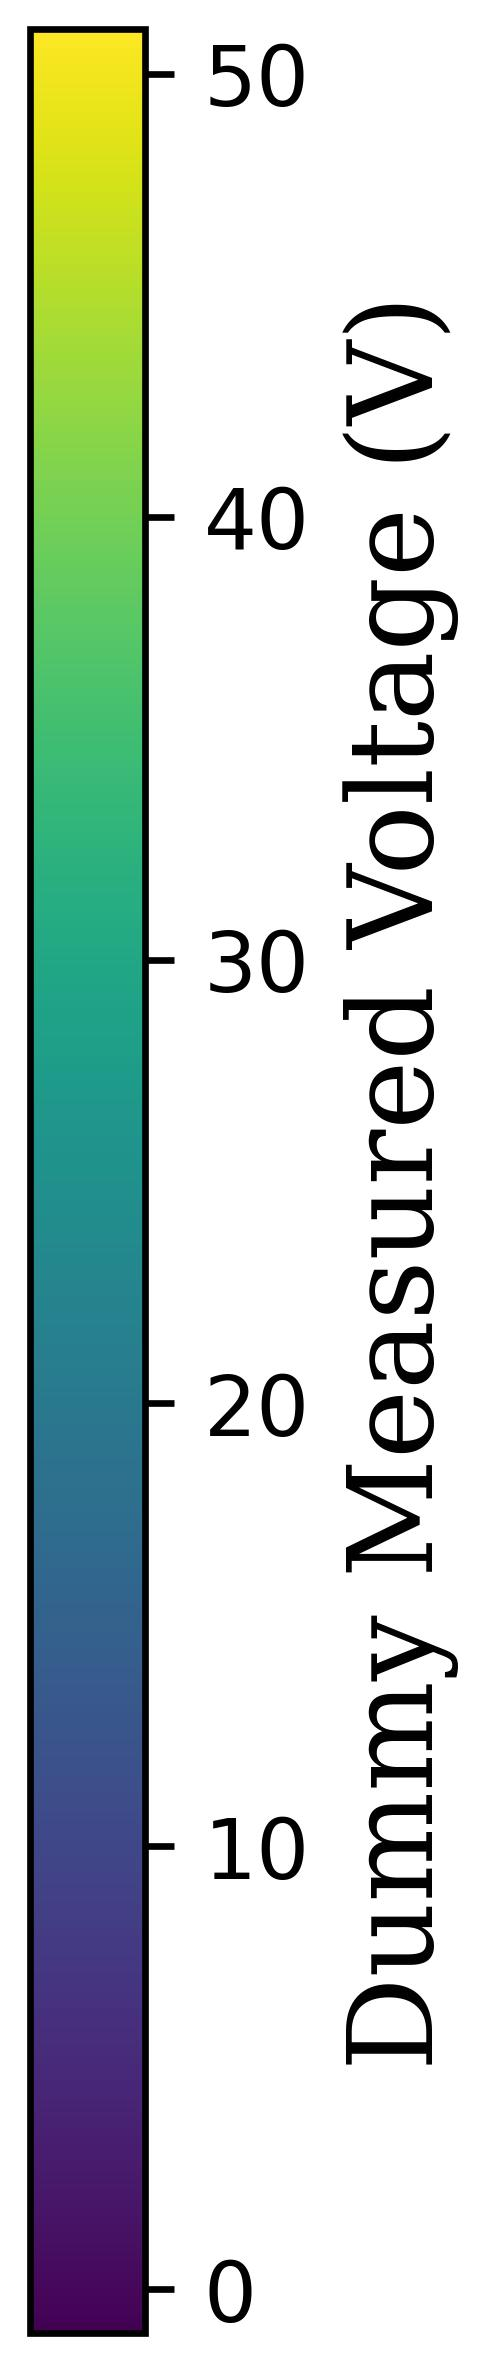
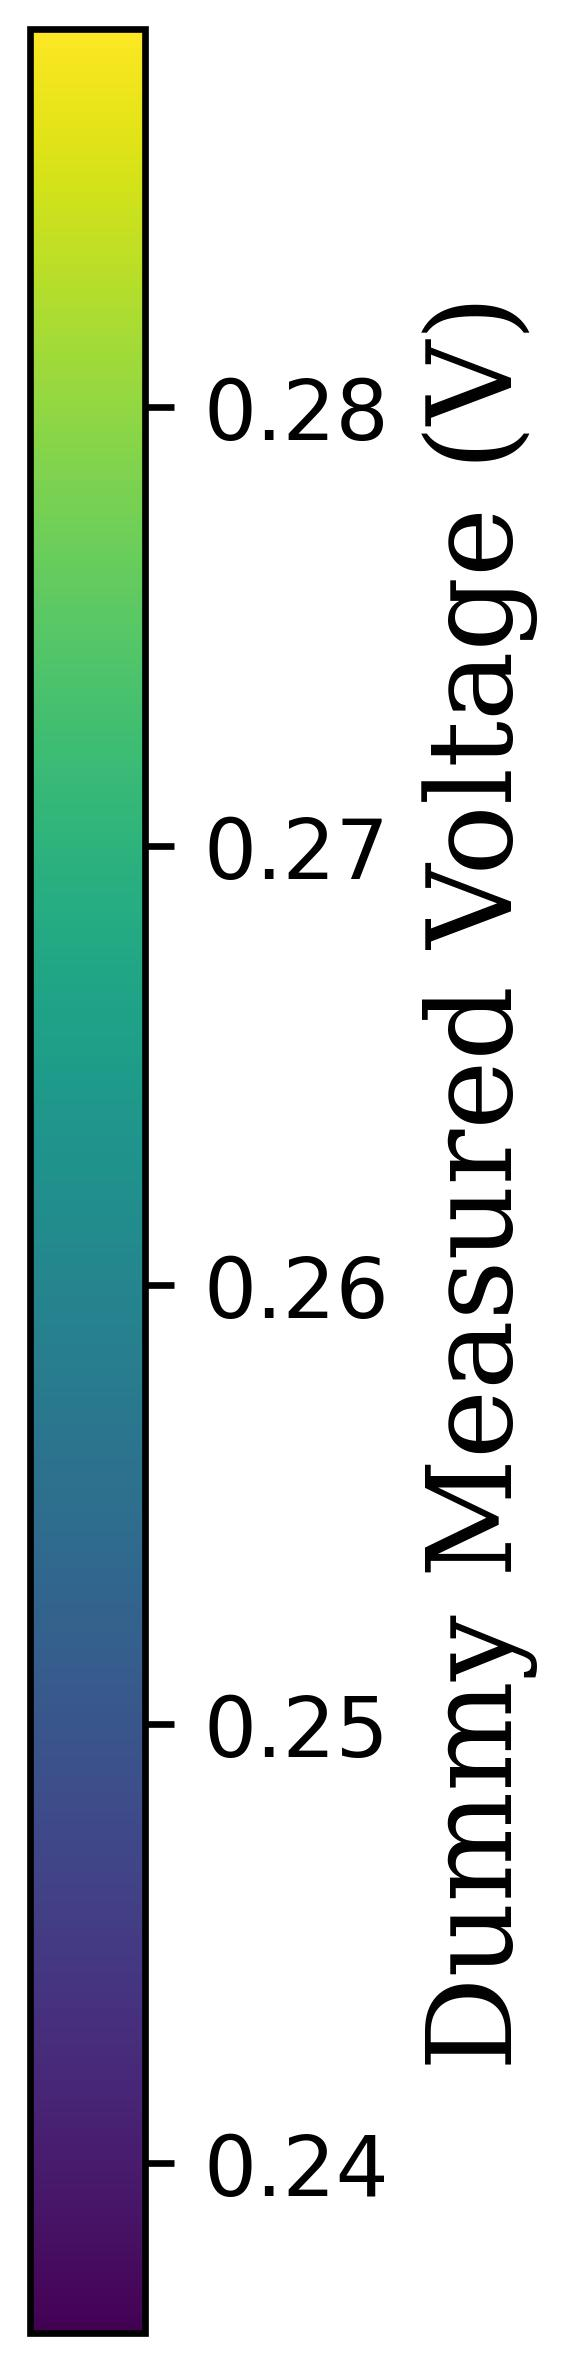
fixed 1D no data yet break

diff --git a/source/custom1D/labeling_.py b/source/custom1D/labeling_.py
@@ -146,6 +146,14 @@ class labeling():
 		data_bottom_left = self.pixel_pos_to_data_pos((self.margin_size, (self.window_size[1]-self.margin_size)))
 		data_top_right = self.pixel_pos_to_data_pos((self.window_size[0], 0))
 
+		if numpy.isnan(data_bottom_left[1]) or numpy.isnan(data_top_right[1]): #this can happen when the plots open before any data is collected
+			#we'll just write base labels and then return
+			y_label_surf = self._y_label_surfs[""]
+			x_label_surf = self._x_label_surfs[""]
+			self.label_surface.pyg_surf.blit(y_label_surf, (0, (self.window_size[1]-self.margin_size)*0.5-y_label_surf.size[1]*0.5))
+			self.label_surface.pyg_surf.blit(x_label_surf, (self.window_size[0]*0.5+self.margin_size-x_label_surf.size[0], self.window_size[1]-self.margin_size*0.5))
+			return
+
 		x_unit_scaled = new_unit_scale.convert_unit_scale(data_bottom_left[0], data_top_right[0])
 		x_scale_factor = x_unit_scaled[3]
 		y_unit_scaled = new_unit_scale.convert_unit_scale(data_bottom_left[1], data_top_right[1])

diff --git a/script2D.py b/script2D.py
@@ -49,7 +49,7 @@ second_gettable = Parameter("second_gettable", dummy_instrument, "Extra Gettable
 
 
 sweep_number.set(1)
-dummy_voltage_source.inter_delay = 0.0
+dummy_voltage_source.inter_delay = 20
 
 quantify_measurement.set_settables([dummy_voltage_source, sweep_number])
 quantify_measurement.set_gettables([measured_voltage, second_gettable])
